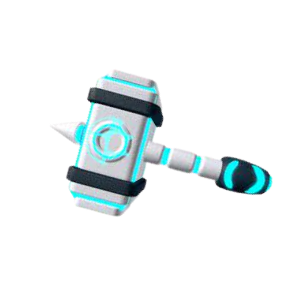
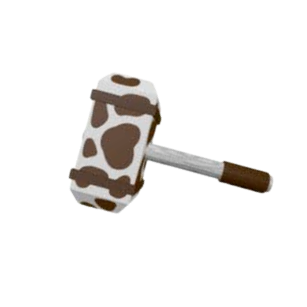
completed level and skin ,changed result ui,signup

Changed region(s): [[0.1759, 0.2345, 0.9088, 0.7036]]

diff --git a/python_files/level_and_skin.py b/python_files/level_and_skin.py
@@ -68,6 +68,48 @@ class level_skin(QDialog):
         self.skin_8.toggled.connect(self.s_8)
         self.skin_9.toggled.connect(self.s_9)
 
+        if self.result[1]==1 and self.result[10]==1:
+            icon = QtGui.QIcon()
+            icon.addPixmap(QtGui.QPixmap("../Whack_A_Mole/Images and icon/unlocked.png"), QtGui.QIcon.Normal, QtGui.QIcon.Off)
+            self.e_level2.setIcon(icon)
+            self.s2_label.setText("Unlocked")
+        if self.result[2]==1 and self.result[11]==1:
+            icon = QtGui.QIcon()
+            icon.addPixmap(QtGui.QPixmap("../Whack_A_Mole/Images and icon/unlocked.png"), QtGui.QIcon.Normal, QtGui.QIcon.Off)
+            self.e_level3.setIcon(icon)
+            self.s3_label.setText("Unlocked")
+        if self.result[3]==1 and self.result[12]==1:
+            icon = QtGui.QIcon()
+            icon.addPixmap(QtGui.QPixmap("../Whack_A_Mole/Images and icon/unlocked.png"), QtGui.QIcon.Normal, QtGui.QIcon.Off)
+            self.m_level1.setIcon(icon)
+            self.s4_label.setText("Unlocked")
+        if self.result[4]==1 and self.result[13]==1:
+            icon = QtGui.QIcon()
+            icon.addPixmap(QtGui.QPixmap("../Whack_A_Mole/Images and icon/unlocked.png"), QtGui.QIcon.Normal, QtGui.QIcon.Off)
+            self.m_level2.setIcon(icon)
+            self.s5_label.setText("Unlocked")
+        if self.result[5]==1 and self.result[14]==1:
+            icon = QtGui.QIcon()
+            icon.addPixmap(QtGui.QPixmap("../Whack_A_Mole/Images and icon/unlocked.png"), QtGui.QIcon.Normal, QtGui.QIcon.Off)
+            self.m_level3.setIcon(icon)
+            self.s6_label.setText("Unlocked")
+        if self.result[6]==1 and self.result[15]==1:
+            icon = QtGui.QIcon()
+            icon.addPixmap(QtGui.QPixmap("../Whack_A_Mole/Images and icon/unlocked.png"), QtGui.QIcon.Normal, QtGui.QIcon.Off)
+            self.h_level1.setIcon(icon)
+            self.s7_label.setText("Unlocked")
+        if self.result[7]==1 and self.result[16]==1:
+            icon = QtGui.QIcon()
+            icon.addPixmap(QtGui.QPixmap("../Whack_A_Mole/Images and icon/unlocked.png"), QtGui.QIcon.Normal, QtGui.QIcon.Off)
+            self.h_level2.setIcon(icon)
+            self.s8_label.setText("Unlocked")
+        if self.result[8]==1 and self.result[167]==1:
+            icon = QtGui.QIcon()
+            icon.addPixmap(QtGui.QPixmap("../Whack_A_Mole/Images and icon/unlocked.png"), QtGui.QIcon.Normal, QtGui.QIcon.Off)
+            self.h_level3.setIcon(icon)
+            self.s9_label.setText("Unlocked")
+        
+
     def e_lev_1(self):
         global level
         level = 'e1'
@@ -147,7 +189,7 @@ class level_skin(QDialog):
         elif self.skin_2.isChecked() and self.result[10] == 0:
             self.l_pop = level_popup()
             self.l_pop.show()
-
+        
     def s_3(self):
         if self.skin_3.isChecked() and self.result[11] == 1:
             global skin

diff --git a/python_files/result.py b/python_files/result.py
@@ -29,7 +29,11 @@ class Result(QDialog):
 
         self.f_next.setStyleSheet(
             "QPushButton{font: 16pt \"Arial Rounded MT Bold\";\npadding:15px;\nbackground-color:green;\ncolor:white;\nborder-radius:20px;}\nQPushButton:hover{\nborder:1px solid white;\nbackground-color:#03C227;}")
-        self.f_next.clicked.connect(self.goto_leaderboard)
+        self.f_next.clicked.connect(self.goto_level_skin)
+
+        self.f_mainmenu.setStyleSheet(
+            "QPushButton{font: 16pt \"Arial Rounded MT Bold\";\npadding:15px;\nbackground-color:green;\ncolor:white;\nborder-radius:20px;}\nQPushButton:hover{\nborder:1px solid white;\nbackground-color:#03C227;}")
+        self.f_mainmenu.clicked.connect(self.goto_mainmenu)
 
         self.f_quit.setStyleSheet(
             "QPushButton{font: 16pt \"Arial Rounded MT Bold\";\npadding:15px;\nbackground-color:green;\ncolor:white;\nborder-radius:20px;}\nQPushButton:hover{\nborder:1px solid white;\nbackground-color:#03C227;}")
@@ -54,8 +58,17 @@ class Result(QDialog):
         self.z.show()
         self.close()
 
-    def goto_leaderboard(self):
-        pass
+    def goto_level_skin(self):
+        from level_and_skin import level_skin
+        self.level_window=level_skin(self.username1)
+        self.level_window.show()
+        self.close()
+
+    def goto_mainmenu(self):
+        from Main_menu import Main_menu
+        self.w=Main_menu(self.username1)
+        self.w.show()
+        self.close()
 
     def goto_quit(self):
         from Main_menu import popwindow

diff --git a/python_files/Main_menu.py b/python_files/Main_menu.py
@@ -61,7 +61,11 @@ class popwindow(QDialog):
         loadUi(r"C:\Whack_A_Mole\ui_files\popupwindow.ui", self)
         self.setWindowTitle("Alert")
         self.f_popup_quit.clicked.connect(self.quit)
+        self.f_popup_quit.setStyleSheet(
+            "QPushButton{font: 12pt \"Arial Rounded MT Bold\";\npadding:5px;\nbackground-color:green;\ncolor:white;\nborder-radius:10px;}\nQPushButton:hover{\nborder:1px solid white;\nbackground-color:#03C227;}")
         self.f_popup_cancel.clicked.connect(self.cancel)
+        self.f_popup_cancel.setStyleSheet(
+            "QPushButton{font: 12pt \"Arial Rounded MT Bold\";\npadding:5px;\nbackground-color:green;\ncolor:white;\nborder-radius:10px;}\nQPushButton:hover{\nborder:1px solid white;\nbackground-color:#03C227;}")
 
     def quit(self):
         sys.exit()
